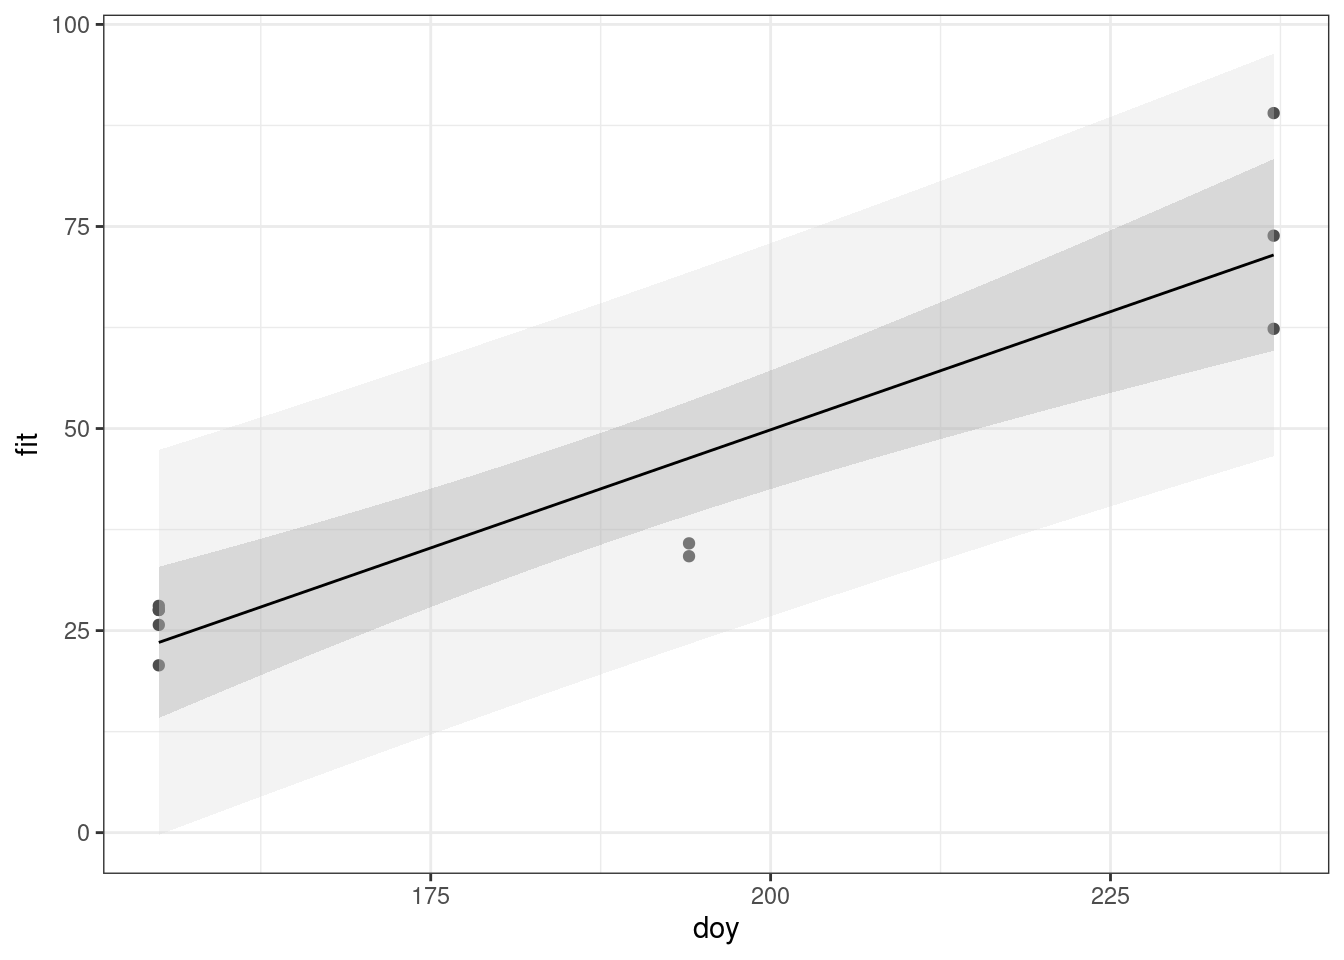
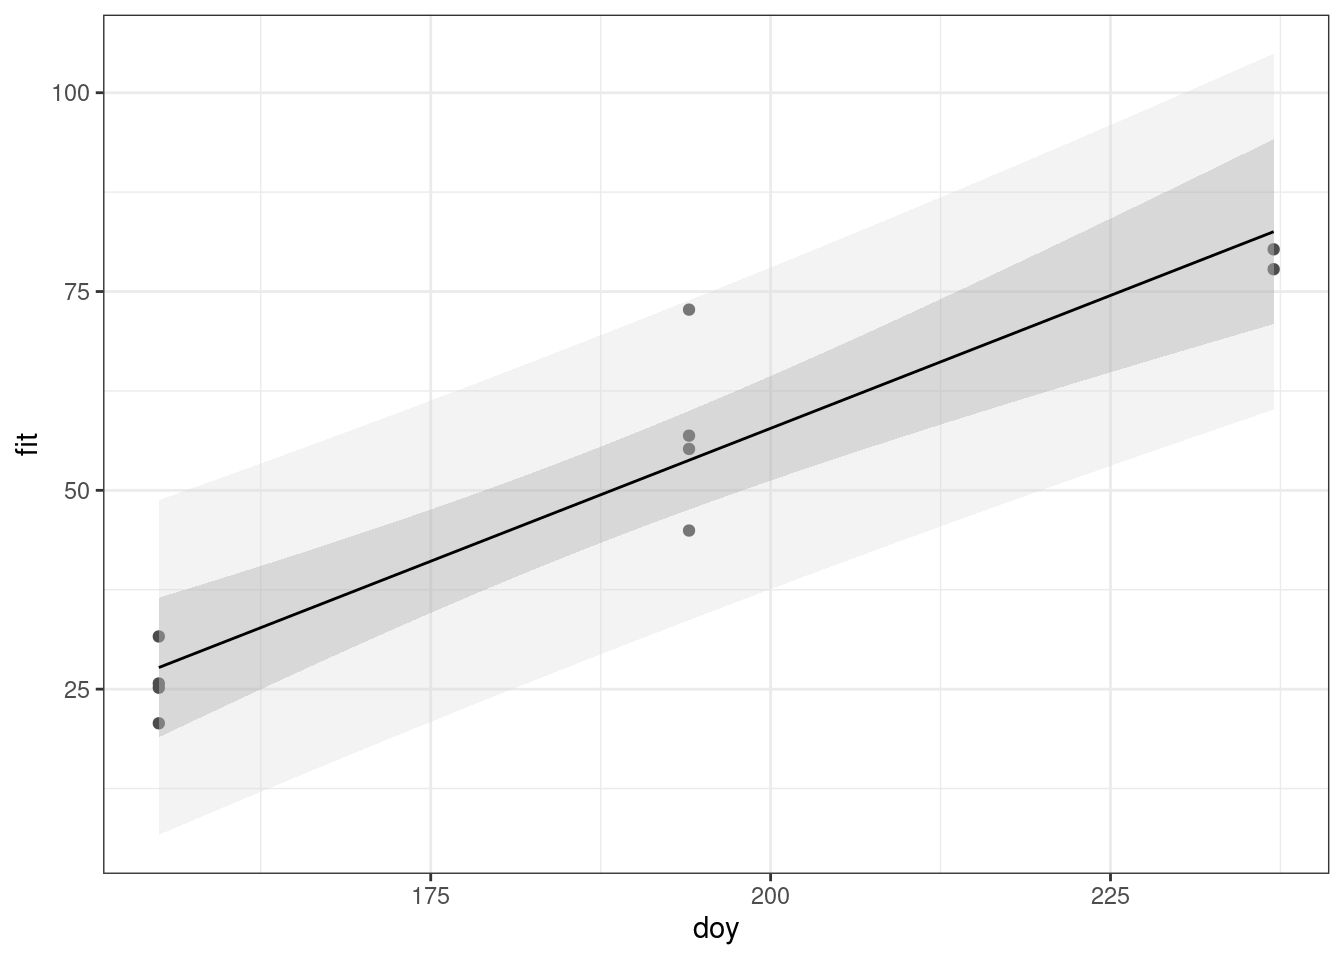
day7

diff --git a/classes/day07_09042024.html b/classes/day07_09042024.html
@@ -184,25 +184,26 @@ Remember that <span class="math inline">\(E(y)\)</span> is the mean of all poten
 <section id="uncertainty-as-affected-by-the-data" class="level2">
 <h2 class="anchored" data-anchor-id="uncertainty-as-affected-by-the-data">Uncertainty as affected by the data</h2>
 <div class="cell">
-<div class="sourceCode cell-code" id="cb5"><pre class="sourceCode r code-with-copy"><code class="sourceCode r"><span id="cb5-1"><a href="#cb5-1" aria-hidden="true" tabindex="-1"></a>data <span class="ot">&lt;-</span> <span class="fu">read.csv</span>(url)[<span class="fu">c</span>(<span class="dv">8</span><span class="sc">:</span><span class="dv">12</span>, <span class="dv">35</span><span class="sc">:</span><span class="dv">39</span>),]</span>
-<span id="cb5-2"><a href="#cb5-2" aria-hidden="true" tabindex="-1"></a>m <span class="ot">&lt;-</span> <span class="fu">lm</span>(stm.length_cm <span class="sc">~</span> <span class="dv">1</span> <span class="sc">+</span> doy,  <span class="at">data =</span> data)</span>
-<span id="cb5-3"><a href="#cb5-3" aria-hidden="true" tabindex="-1"></a>doy <span class="ot">&lt;-</span> <span class="fu">seq</span>(<span class="fu">min</span>(data<span class="sc">$</span>doy), <span class="fu">max</span>(data<span class="sc">$</span>doy), <span class="at">by =</span> <span class="dv">1</span>)</span>
-<span id="cb5-4"><a href="#cb5-4" aria-hidden="true" tabindex="-1"></a>estim <span class="ot">&lt;-</span> <span class="fu">predict</span>(m, <span class="fu">data.frame</span>(doy), <span class="at">interval=</span><span class="st">"confidence"</span>)</span>
-<span id="cb5-5"><a href="#cb5-5" aria-hidden="true" tabindex="-1"></a></span>
-<span id="cb5-6"><a href="#cb5-6" aria-hidden="true" tabindex="-1"></a>fitted.data <span class="ot">&lt;-</span> <span class="fu">bind_cols</span>(estim, <span class="at">doy =</span>doy) </span>
-<span id="cb5-7"><a href="#cb5-7" aria-hidden="true" tabindex="-1"></a>pred <span class="ot">&lt;-</span> <span class="fu">predict</span>(m, <span class="fu">data.frame</span>(doy), <span class="at">interval=</span><span class="st">"prediction"</span>)</span>
-<span id="cb5-8"><a href="#cb5-8" aria-hidden="true" tabindex="-1"></a></span>
-<span id="cb5-9"><a href="#cb5-9" aria-hidden="true" tabindex="-1"></a>fitted.data <span class="ot">&lt;-</span> <span class="fu">bind_cols</span>(fitted.data, </span>
-<span id="cb5-10"><a href="#cb5-10" aria-hidden="true" tabindex="-1"></a>                         <span class="at">pred_lwr =</span> pred[,<span class="dv">2</span>], </span>
-<span id="cb5-11"><a href="#cb5-11" aria-hidden="true" tabindex="-1"></a>                         <span class="at">pred_upr =</span> pred[,<span class="dv">3</span>]) </span>
-<span id="cb5-12"><a href="#cb5-12" aria-hidden="true" tabindex="-1"></a></span>
-<span id="cb5-13"><a href="#cb5-13" aria-hidden="true" tabindex="-1"></a>fitted.data <span class="sc">%&gt;%</span> </span>
-<span id="cb5-14"><a href="#cb5-14" aria-hidden="true" tabindex="-1"></a>  <span class="fu">ggplot</span>(<span class="fu">aes</span>(doy, fit))<span class="sc">+</span></span>
-<span id="cb5-15"><a href="#cb5-15" aria-hidden="true" tabindex="-1"></a>  <span class="fu">geom_point</span>(<span class="fu">aes</span>(<span class="at">x =</span> doy, <span class="at">y =</span> stm.length_cm), <span class="at">data =</span> data, <span class="at">color =</span> <span class="st">'grey30'</span>)<span class="sc">+</span></span>
-<span id="cb5-16"><a href="#cb5-16" aria-hidden="true" tabindex="-1"></a>  <span class="fu">geom_ribbon</span>(<span class="fu">aes</span>(<span class="at">ymin =</span> pred_lwr, <span class="at">ymax =</span> pred_upr), <span class="at">fill =</span> <span class="st">'grey85'</span>, <span class="at">alpha =</span> .<span class="dv">3</span>)<span class="sc">+</span></span>
-<span id="cb5-17"><a href="#cb5-17" aria-hidden="true" tabindex="-1"></a>  <span class="fu">geom_ribbon</span>(<span class="fu">aes</span>(<span class="at">ymin =</span> lwr, <span class="at">ymax =</span> upr), <span class="at">fill =</span> <span class="st">'grey60'</span>, <span class="at">alpha =</span> .<span class="dv">3</span>)<span class="sc">+</span></span>
-<span id="cb5-18"><a href="#cb5-18" aria-hidden="true" tabindex="-1"></a>  <span class="fu">geom_line</span>()<span class="sc">+</span></span>
-<span id="cb5-19"><a href="#cb5-19" aria-hidden="true" tabindex="-1"></a>  <span class="fu">theme_bw</span>()</span></code><button title="Copy to Clipboard" class="code-copy-button"><i class="bi"></i></button></pre></div>
+<div class="sourceCode cell-code" id="cb5"><pre class="sourceCode r code-with-copy"><code class="sourceCode r"><span id="cb5-1"><a href="#cb5-1" aria-hidden="true" tabindex="-1"></a><span class="fu">set.seed</span>(<span class="dv">398</span>)</span>
+<span id="cb5-2"><a href="#cb5-2" aria-hidden="true" tabindex="-1"></a>dd <span class="ot">&lt;-</span> <span class="fu">read.csv</span>(url)[<span class="fu">sample</span>(<span class="dv">1</span><span class="sc">:</span><span class="fu">nrow</span>(data), <span class="at">size =</span> <span class="dv">10</span>, <span class="at">replace =</span> <span class="cn">FALSE</span>),]</span>
+<span id="cb5-3"><a href="#cb5-3" aria-hidden="true" tabindex="-1"></a>m <span class="ot">&lt;-</span> <span class="fu">lm</span>(stm.length_cm <span class="sc">~</span> <span class="dv">1</span> <span class="sc">+</span> doy,  <span class="at">data =</span> dd)</span>
+<span id="cb5-4"><a href="#cb5-4" aria-hidden="true" tabindex="-1"></a>doy <span class="ot">&lt;-</span> <span class="fu">seq</span>(<span class="fu">min</span>(dd<span class="sc">$</span>doy), <span class="fu">max</span>(dd<span class="sc">$</span>doy), <span class="at">by =</span> <span class="dv">1</span>)</span>
+<span id="cb5-5"><a href="#cb5-5" aria-hidden="true" tabindex="-1"></a>estim <span class="ot">&lt;-</span> <span class="fu">predict</span>(m, <span class="fu">data.frame</span>(doy), <span class="at">interval=</span><span class="st">"confidence"</span>)</span>
+<span id="cb5-6"><a href="#cb5-6" aria-hidden="true" tabindex="-1"></a></span>
+<span id="cb5-7"><a href="#cb5-7" aria-hidden="true" tabindex="-1"></a>fitted.data <span class="ot">&lt;-</span> <span class="fu">bind_cols</span>(estim, <span class="at">doy =</span>doy) </span>
+<span id="cb5-8"><a href="#cb5-8" aria-hidden="true" tabindex="-1"></a>pred <span class="ot">&lt;-</span> <span class="fu">predict</span>(m, <span class="fu">data.frame</span>(doy), <span class="at">interval=</span><span class="st">"prediction"</span>)</span>
+<span id="cb5-9"><a href="#cb5-9" aria-hidden="true" tabindex="-1"></a></span>
+<span id="cb5-10"><a href="#cb5-10" aria-hidden="true" tabindex="-1"></a>fitted.data <span class="ot">&lt;-</span> <span class="fu">bind_cols</span>(fitted.data, </span>
+<span id="cb5-11"><a href="#cb5-11" aria-hidden="true" tabindex="-1"></a>                         <span class="at">pred_lwr =</span> pred[,<span class="dv">2</span>], </span>
+<span id="cb5-12"><a href="#cb5-12" aria-hidden="true" tabindex="-1"></a>                         <span class="at">pred_upr =</span> pred[,<span class="dv">3</span>]) </span>
+<span id="cb5-13"><a href="#cb5-13" aria-hidden="true" tabindex="-1"></a></span>
+<span id="cb5-14"><a href="#cb5-14" aria-hidden="true" tabindex="-1"></a>fitted.data <span class="sc">%&gt;%</span> </span>
+<span id="cb5-15"><a href="#cb5-15" aria-hidden="true" tabindex="-1"></a>  <span class="fu">ggplot</span>(<span class="fu">aes</span>(doy, fit))<span class="sc">+</span></span>
+<span id="cb5-16"><a href="#cb5-16" aria-hidden="true" tabindex="-1"></a>  <span class="fu">geom_point</span>(<span class="fu">aes</span>(<span class="at">x =</span> doy, <span class="at">y =</span> stm.length_cm), <span class="at">data =</span> dd, <span class="at">color =</span> <span class="st">'grey30'</span>)<span class="sc">+</span></span>
+<span id="cb5-17"><a href="#cb5-17" aria-hidden="true" tabindex="-1"></a>  <span class="fu">geom_ribbon</span>(<span class="fu">aes</span>(<span class="at">ymin =</span> pred_lwr, <span class="at">ymax =</span> pred_upr), <span class="at">fill =</span> <span class="st">'grey85'</span>, <span class="at">alpha =</span> .<span class="dv">3</span>)<span class="sc">+</span></span>
+<span id="cb5-18"><a href="#cb5-18" aria-hidden="true" tabindex="-1"></a>  <span class="fu">geom_ribbon</span>(<span class="fu">aes</span>(<span class="at">ymin =</span> lwr, <span class="at">ymax =</span> upr), <span class="at">fill =</span> <span class="st">'grey60'</span>, <span class="at">alpha =</span> .<span class="dv">3</span>)<span class="sc">+</span></span>
+<span id="cb5-19"><a href="#cb5-19" aria-hidden="true" tabindex="-1"></a>  <span class="fu">geom_line</span>()<span class="sc">+</span></span>
+<span id="cb5-20"><a href="#cb5-20" aria-hidden="true" tabindex="-1"></a>  <span class="fu">theme_bw</span>()</span></code><button title="Copy to Clipboard" class="code-copy-button"><i class="bi"></i></button></pre></div>
 <div class="cell-output-display">
 <p><img src="day07_09042024_files/figure-html/unnamed-chunk-4-1.png" class="img-fluid" width="672"></p>
 </div>
